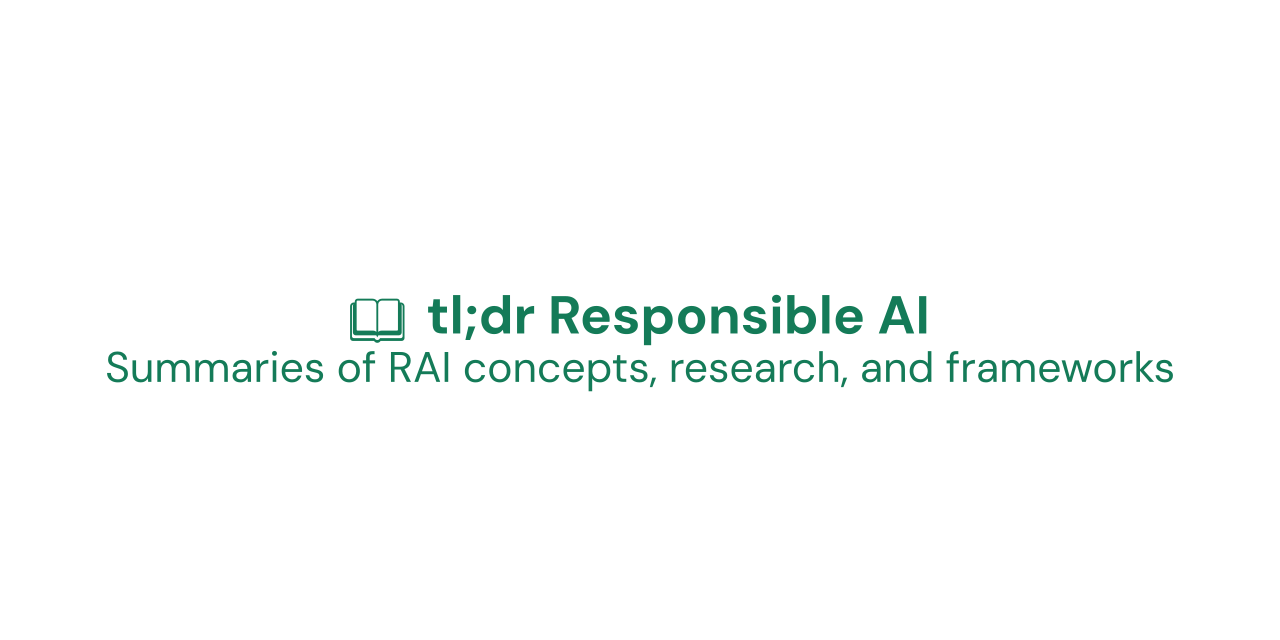
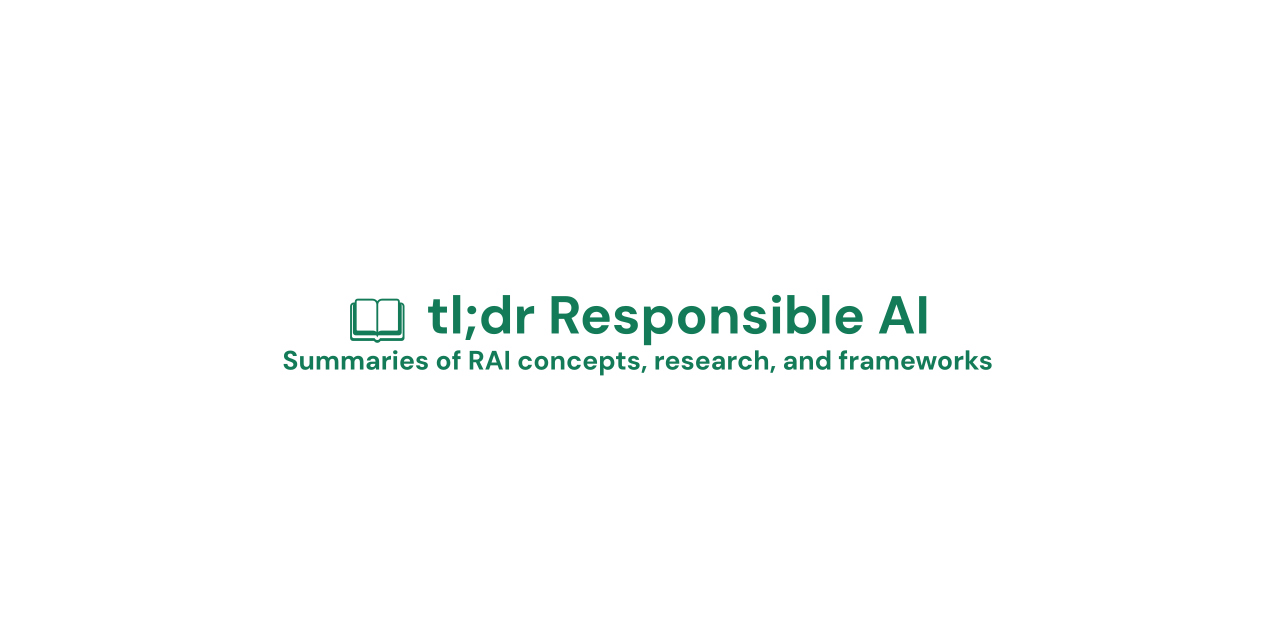
Quartz sync: Feb 14, 2025, 8:07 PM

Changed region(s): [[0.0625, 0.5312, 0.9375, 0.625]]

diff --git a/content/Regulations and Frameworks/NIST AI 600-1 GAI Risk Management Framework.md b/content/Regulations and Frameworks/NIST AI 600-1 GAI Risk Management Framework.md
@@ -1,0 +1,89 @@
+---
+title: "NIST AI 600-1: Artificial Intelligence Risk Management Framework: Generative Artificial Intelligence Profile"
+year: "2024"
+type: Technical Report
+link: https://nvlpubs.nist.gov/nistpubs/ai/NIST.AI.600-1.pdf
+tags:
+  - framework
+  - risk-management
+  - generative-ai
+  - regulation
+---
+# Summary
+This document provides a cross-sectoral profile and companion resource for the AI Risk Management Framework (AI RMF 1.0) specifically focused on Generative AI (GAI), developed in response to President Biden's Executive Order 14110 on Safe, Secure, and Trustworthy AI. The profile offers guidance on managing risks across various stages of the AI lifecycle for GAI technology.
+
+# Key Points
+1. Defines 12 key risks unique to or exacerbated by GAI:
+   - CBRN Information/Capabilities
+   - Confabulation ("hallucinations")
+   - Dangerous/Violent/Hateful Content
+   - Data Privacy
+   - Environmental Impacts
+   - Harmful Bias and Homogenization
+   - Human-AI Configuration
+   - Information Integrity
+   - Information Security
+   - Intellectual Property
+   - Obscene/Degrading Content
+   - Value Chain and Component Integration
+
+2. Risk Dimensions:
+   - Lifecycle Stage (design, development, deployment, operation)
+   - Scope (individual model, system level, ecosystem level)
+   - Source (model design, training, operation, human behavior)
+   - Time Scale (immediate vs. long-term impacts)
+
+3. Four Primary Considerations:
+   - Governance
+   - Pre-Deployment Testing
+   - Content Provenance
+   - Incident Disclosure
+
+# Significance
+- First major US government framework specifically addressing GAI risks
+- Provides structured approach to GAI risk management
+- Integrates with existing AI RMF while addressing GAI-specific challenges
+- Emphasizes importance of continuous monitoring and evaluation
+
+# Methods
+The framework was developed through:
+- Public feedback and consultation
+- NIST Generative AI Public Working Group
+- Multiple stakeholder input sessions
+- Integration with existing AI risk management approaches
+
+# Critique
+Strengths:
+- Comprehensive coverage of GAI risks
+- Practical implementation guidance
+- Clear organization and structure
+- Strong focus on measurement and validation
+
+Limitations:
+- Some risks may be difficult to measure quantitatively
+- Framework still evolving as GAI technology develops
+- Implementation may be resource-intensive for smaller organizations
+
+# Future Work
+- Additional AI RMF subcategories to be added
+- Future revisions will incorporate empirical evidence
+- Development of GAI-specific glossary
+- Integration with other regulatory frameworks
+
+# Relevance to Project
+This framework provides essential guidance for:
+- Risk assessment methodologies
+- Testing and validation approaches
+- Governance structures
+- Incident response protocols
+
+# Key Quotes
+> "Risk refers to the composite measure of an event's probability (or likelihood) of occurring and the magnitude or degree of the consequences of the corresponding event."
+
+> "GAI risks are unknown, and are therefore difficult to properly scope or evaluate given the uncertainty about potential GAI scale, complexity, and capabilities."
+
+# Notes
+- Released July 2024
+- Living document expected to evolve
+- Strong emphasis on practical implementation
+- Balanced approach between innovation and safety